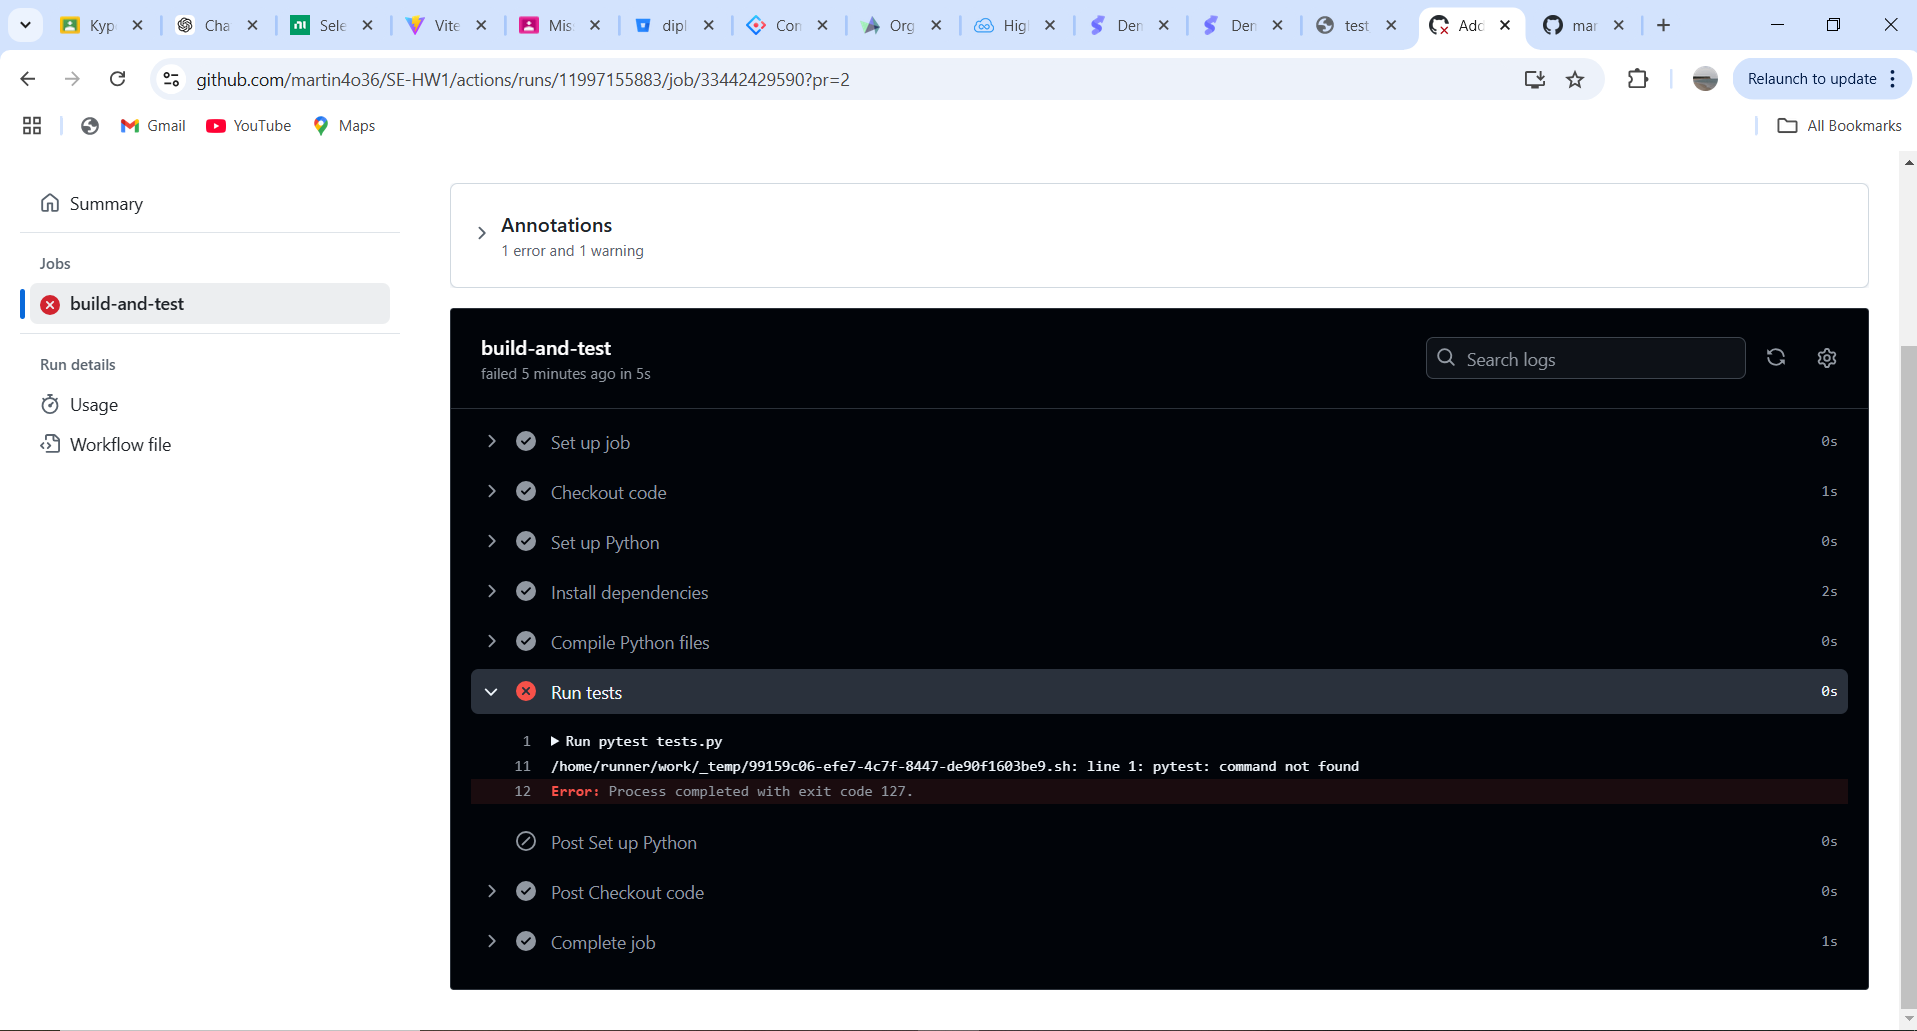
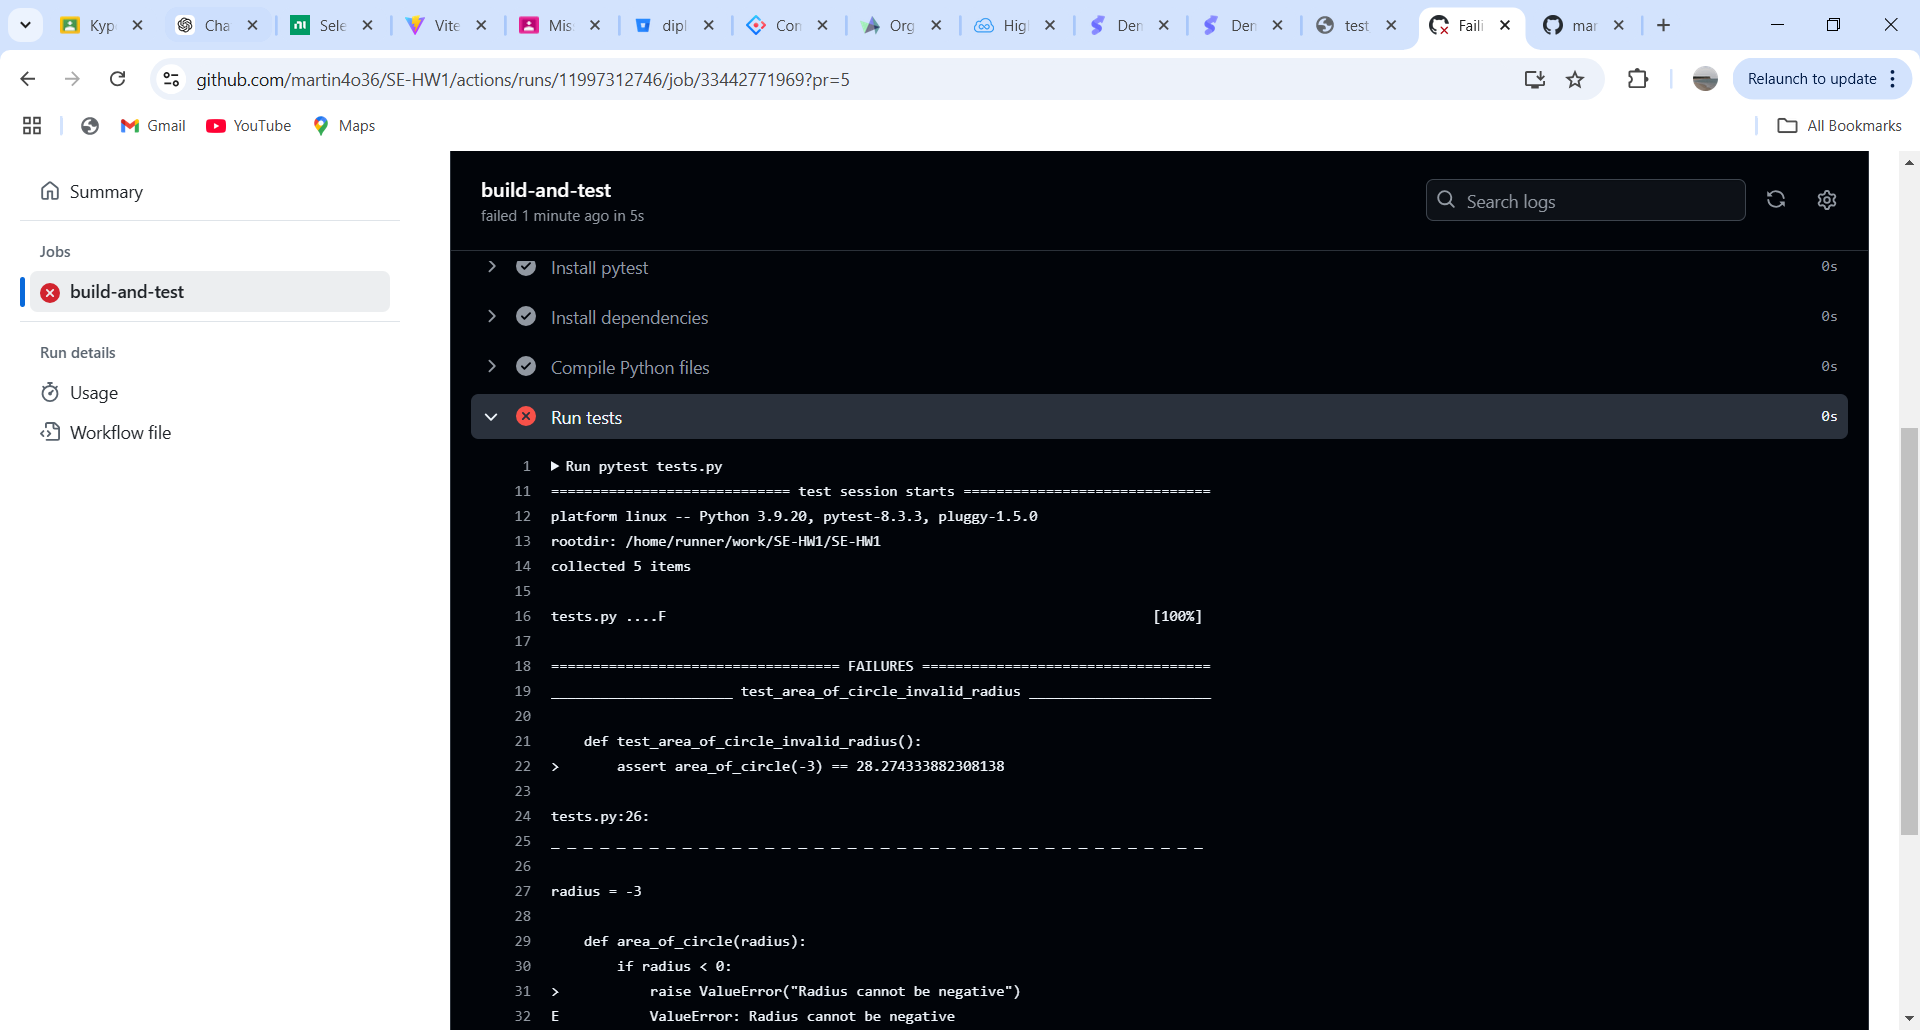
Failing compilation

diff --git a/tests.py b/tests.py
@@ -22,5 +22,5 @@ def test_area_of_zero():
     assert area_of_triangle(0, 0) == 0
 
 # Failng test on purpose
-def test_area_of_circle_invalid_radius():
-    assert area_of_circle(-3) == 28.274333882308138
+# def test_area_of_circle_invalid_radius():
+#     assert area_of_circle(-3) == 28.274333882308138

diff --git a/main.py b/main.py
@@ -1,4 +1,5 @@
 from shapes import *
+import some_shit
 
 def main():
     while True:
